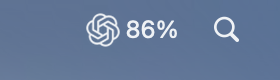
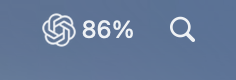
Center and tighten README screenshots

Changed region(s): [[0.178, 0.15, 0.6525, 0.6], [0.7119, 0.2, 0.8602, 0.525]]

diff --git a/README.md b/README.md
@@ -12,22 +12,22 @@ The apps launch a local `codex app-server` process and reuse Codex's existing Ch
 
 ## Screenshots
 
-<table>
+<table align="center">
   <tr>
     <th>macOS menu</th>
     <th>Windows popup</th>
   </tr>
   <tr>
-    <td valign="top"><img src="Artwork/Screenshots/macos-menu.png" alt="Expanded macOS ChatGPT Usage menu showing demo usage percentages, reset times, additional limits, and token usage" width="280"></td>
-    <td valign="top"><img src="Artwork/Screenshots/windows-popup.png" alt="Expanded Windows ChatGPT Usage popup showing usage percentages, reset dates, expanded additional limits and token usage, and refresh controls" width="280"></td>
+    <td align="center" valign="top"><img src="Artwork/Screenshots/macos-menu.png" alt="Expanded macOS ChatGPT Usage menu showing demo usage percentages, reset times, additional limits, and token usage" width="280"></td>
+    <td align="center" valign="top"><img src="Artwork/Screenshots/windows-popup.png" alt="Expanded Windows ChatGPT Usage popup showing usage percentages, reset dates, expanded additional limits and token usage, and refresh controls" width="280"></td>
   </tr>
   <tr>
     <th>macOS menu bar</th>
     <th>Windows widget</th>
   </tr>
   <tr>
-    <td valign="top"><img src="Artwork/Screenshots/macos-menubar.png" alt="macOS ChatGPT Usage menu-bar icon showing 86% remaining beside Spotlight" width="280"></td>
-    <td valign="top"><img src="Artwork/Screenshots/windows-widget.png" alt="Windows ChatGPT Usage floating widget showing a demo usage percentage" width="220"></td>
+    <td align="center" valign="top"><img src="Artwork/Screenshots/macos-menubar.png" alt="macOS ChatGPT Usage menu-bar icon showing 86% remaining beside Spotlight" width="236"></td>
+    <td align="center" valign="top"><img src="Artwork/Screenshots/windows-widget.png" alt="Windows ChatGPT Usage floating widget showing a demo usage percentage" width="220"></td>
   </tr>
 </table>
 
